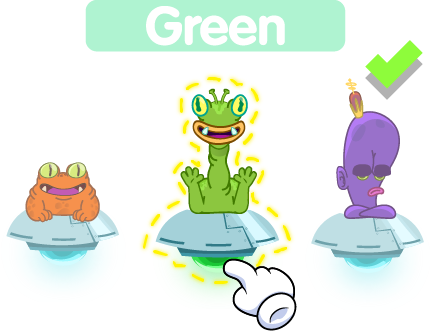
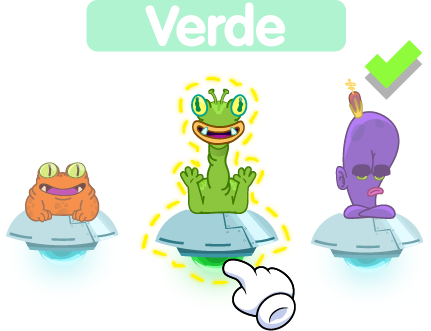
colorInvaders changes QA

diff --git a/newStructure/minigames/colorInvaders/js/scenes/colorInvaders.js b/newStructure/minigames/colorInvaders/js/scenes/colorInvaders.js
@@ -170,7 +170,7 @@ var colorInvaders = function(){
 		timeAttack = false
 		timer = 50000
 
-		if(localization.getLanguage() === 'EN'){
+		if(localization.getLanguage() === 'ES'){
 			colorsText = ['Blue', 'Green', 'Orange', 'Pink', 'Purple', 'Red', 'Yellow']
 		}
 		else{
